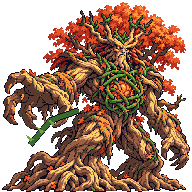
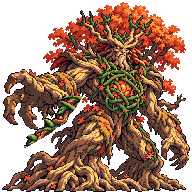
art(world1): redraw Bramble King vine parts

Changed region(s): [[0.125, 0.5, 0.4375, 0.7812]]

diff --git a/tools/art/build_world1_boss.py b/tools/art/build_world1_boss.py
@@ -3,7 +3,6 @@ from __future__ import annotations
 
 from pathlib import Path
 import json
-import math
 import random
 from PIL import Image, ImageDraw
 from pack_atlas import pack
@@ -11,6 +10,10 @@ from pack_atlas import pack
 ROOT=Path(__file__).resolve().parents[2]
 SOURCE=ROOT/'art/concept/2026-10-24_bramble_king_sprite_source.png'
 VINE_SOURCE=ROOT/'art/concept/2026-10-25_vine_whip_detailed_source.png'
+ATTACK_SOURCE=ROOT/'art/concept/2026-10-25_vine_attack_detailed_source.png'
+SHIELD_IDLE_SOURCE=ROOT/'art/concept/2026-10-25_vine_shield_idle_source.png'
+SHIELD_BURN_SOURCE=ROOT/'art/concept/2026-10-25_vine_shield_burn_source.png'
+SEED_SOURCE=ROOT/'art/concept/2026-10-25_thorn_seed_source.png'
 OUT=ROOT/'art/frames/boss_bramble_king'
 PREVIEW=ROOT/'art/previews/phase_c'
 MASTER=[tuple(bytes.fromhex(s.strip()[1:])) for s in (ROOT/'art/palette/master_palette.hex').read_text().splitlines() if s.strip()]
@@ -43,7 +46,25 @@ def base_boss() -> Image.Image:
     return result
 
 
-def boss_pose(base:Image.Image,action:str,i:int,count:int)->Image.Image:
+def concept(path:Path,size:tuple[int,int])->Image.Image:
+    source=Image.open(path).convert('RGBA')
+    box=source.getchannel('A').point(lambda a:255 if a>=128 else 0).getbbox()
+    return indexed(source.crop(box).resize(size,Image.Resampling.NEAREST))
+
+
+def attack_tendril()->Image.Image:
+    # Isolate the new hanging vine; retain the original boss body in every pose.
+    source=Image.open(ATTACK_SOURCE).convert('RGBA').crop((0,650,500,1240))
+    mask=Image.new('L',source.size);drawing=ImageDraw.Draw(mask)
+    drawing.polygon([(330,0),(460,0),(410,90),(345,160),(290,225),
+                     (175,300),(80,360),(22,445),(75,535),(160,590),
+                     (90,590),(0,475),(10,350),(125,270),(230,190),
+                     (260,100)],fill=255)
+    source.putalpha(Image.composite(source.getchannel('A'),Image.new('L',source.size),mask))
+    return indexed(source.resize((90,95),Image.Resampling.NEAREST))
+
+
+def boss_pose(base:Image.Image,action:str,i:int,count:int,tendril:Image.Image)->Image.Image:
     frame=base.copy();d=ImageDraw.Draw(frame)
     if action=='idle':
         # Autumn leaves drift above the branches. Trunk/roots stay anchored.
@@ -51,12 +72,11 @@ def boss_pose(base:Image.Image,action:str,i:int,count:int)->Image.Image:
             x=48+j*32+(i+j)%3;y=9+j*8+i%2
             d.rectangle((x,y,x+2,y+2),fill=P((11,12,13)[j]))
     elif action=='vine_attack':
-        x=round(50-5*min(i,5))
-        d.line((78,110,50,120,x,144),fill=P(0),width=7)
-        d.line((78,110,50,120,x,144),fill=P(29),width=5)
-        for j in range(3):
-            px=x+j*11;py=141-j*8
-            d.polygon([(px,py),(px-4,py-6),(px+3,py-2)],fill=P(30))
+        extent=(0,16,32,49,66,82,90,90)[i]
+        if extent:
+            # Root stays fixed at the hand; the thorny striking tip grows left/down.
+            vine=tendril.crop((90-extent,0,90,95))
+            frame.alpha_composite(vine,(90-extent,96))
     elif action=='roar':
         for j in range(2+i%3):
             x=113+j*7;y=61+j*4
@@ -102,31 +122,21 @@ def vine_whip(i:int,base:Image.Image)->Image.Image:
     return frame
 
 
-def shield(i:int,burning:bool)->Image.Image:
-    frame=Image.new('RGBA',(32,32));d=ImageDraw.Draw(frame)
-    d.ellipse((2,2,29,29),fill=P(0))
-    d.ellipse((5,5,26,26),fill=P(28 if not burning else 11))
-    d.ellipse((10,10,21,21),fill=P(29 if not burning else 13))
-    for angle in range(0,360,45):
-        cx=16+round(12*math.cos(math.radians(angle)))
-        cy=16+round(12*math.sin(math.radians(angle)))
-        d.line((16,16,cx,cy),fill=P(30 if not burning else 14),width=2)
-    if burning:
-        rng=random.Random(905)
-        a=frame.load()
-        for y in range(32):
-            for x in range(32):
-                if a[x,y][3] and rng.random()<i/5:
-                    a[x,y]=(0,0,0,0)
+def shield(i:int,burning:bool,idle:Image.Image,burn:Image.Image)->Image.Image:
+    if not burning:return idle.copy()
+    frame=idle.copy();a=frame.load();b=burn.load()
+    rng=random.Random(905)
+    fraction=(.24,.43,.62,.82,1.0,1.0)[i]
+    for y in range(32):
+        for x in range(32):
+            if rng.random()<fraction and b[x,y][3]:a[x,y]=b[x,y]
+            if i==5 and a[x,y][3] and rng.random()<.62:a[x,y]=(0,0,0,0)
     return frame
 
 
-def seed(i:int)->Image.Image:
-    frame=Image.new('RGBA',(16,16));d=ImageDraw.Draw(frame)
-    d.ellipse((4,4+i,11,11+i),fill=P(0))
-    d.ellipse((6,6+i,9,9+i),fill=P(29))
-    for x in (4,8,11):
-        d.polygon([(x,6+i),(x-1,1+i),(x+2,4+i)],fill=P(30))
+def seed(i:int,source:Image.Image)->Image.Image:
+    frame=Image.new('RGBA',(16,16))
+    frame.alpha_composite(source,(1,1+i))
     return frame
 
 
@@ -134,13 +144,19 @@ def build() -> None:
     OUT.mkdir(parents=True,exist_ok=True);PREVIEW.mkdir(parents=True,exist_ok=True)
     base=base_boss()
     whip_base=vine_base()
+    tendril=attack_tendril()
+    shield_idle=concept(SHIELD_IDLE_SOURCE,(30,30))
+    shield_burn=concept(SHIELD_BURN_SOURCE,(30,30))
+    idle_part=Image.new('RGBA',(32,32));idle_part.alpha_composite(shield_idle,(1,1))
+    burn_part=Image.new('RGBA',(32,32));burn_part.alpha_composite(shield_burn,(1,1))
+    seed_base=concept(SEED_SOURCE,(14,14))
     for name,(count,fps,repeat) in ANIMS.items():
         for i in range(count):
             if name=='vine_whip':frame=vine_whip(i,whip_base)
-            elif name=='vine_shield_idle':frame=shield(0,False)
-            elif name=='vine_shield_burn':frame=shield(i,True)
-            elif name=='thorn_seed':frame=seed(i)
-            else:frame=boss_pose(base,name,i,count)
+            elif name=='vine_shield_idle':frame=shield(0,False,idle_part,burn_part)
+            elif name=='vine_shield_burn':frame=shield(i,True,idle_part,burn_part)
+            elif name=='thorn_seed':frame=seed(i,seed_base)
+            else:frame=boss_pose(base,name,i,count,tendril)
             frame.save(OUT/f'{name}_{i:03}.png')
     dest=ROOT/'public/assets/sprites/bosses/boss_bramble_king'
     atlas=pack(OUT,dest)
@@ -167,6 +183,18 @@ def build() -> None:
         enlarged=frame.resize((384,96),Image.Resampling.NEAREST)
         strip.paste(enlarged,(120,i*112+16),enlarged)
     strip.save(PREVIEW/'2026-10-25_vine_whip_animation_strip.png')
+    parts=Image.new('RGB',(640,360),'#2b2440');pd=ImageDraw.Draw(parts)
+    pd.text((12,10),'BRAMBLE KING / REDRAWN VINE PARTS',fill=P(5))
+    for column,step in enumerate((0,3,7)):
+        sprite=Image.open(OUT/f'vine_attack_{step:03}.png').convert('RGBA')
+        parts.paste(sprite,(12+column*207,30),sprite)
+        pd.text((12+column*207,226),f'vine_attack_{step:03}',fill=P(5))
+    for column,(name,step) in enumerate((('vine_shield_idle',0),('vine_shield_burn',3),('thorn_seed',0))):
+        sprite=Image.open(OUT/f'{name}_{step:03}.png').convert('RGBA')
+        sprite=sprite.resize((64,64),Image.Resampling.NEAREST)
+        parts.paste(sprite,(20+column*207,260),sprite)
+        pd.text((87+column*207,278),name,fill=P(5))
+    parts.save(PREVIEW/'2026-10-25_bramble_parts_redraw_review.png')
     print(f"Built {len(atlas['frames'])} boss/part frames and {len(ANIMS)} animations: {atlas['meta']['size']}")
 
 

diff --git a/art/reports/2026-10-25_bramble_parts_imagegen_prompts.md b/art/reports/2026-10-25_bramble_parts_imagegen_prompts.md
@@ -1,0 +1,44 @@
+# Bramble King part redraw — built-in imagegen, 2026-10-25
+
+Four separate built-in `image_gen` edits produced transparent concept sources. `tools/art/build_world1_boss.py` reduces them to the fixed production frame sizes and the existing 16-color boss palette. The concept sources are not loaded by the game.
+
+| Asset | Source | Production frames |
+| --- | --- | --- |
+| vine_attack | `art/concept/2026-10-25_vine_attack_detailed_source.png` | 8 × 192×192 |
+| vine_shield_idle | `art/concept/2026-10-25_vine_shield_idle_source.png` | 1 × 32×32 |
+| vine_shield_burn | `art/concept/2026-10-25_vine_shield_burn_source.png` | 6 × 32×32 |
+| thorn_seed | `art/concept/2026-10-25_thorn_seed_source.png` | 2 × 16×16 |
+
+## Final prompts
+
+### vine_attack
+
+```text
+Use case: precise-object-edit. Asset: Bramble King vine_attack overlay concept for 192×192 boss frames in a 16-bit pixel-art platform game. Image 1 is the current boss attack pose edit target; Image 2 is the detailed vine_whip style reference. Redraw ONLY the attacking vine emerging from the boss's lower left forearm, reaching and lashing diagonally down-left. Preserve the entire boss body, face, foliage, colors, silhouette, stance, and framing exactly as Image 1. Replace the flat green angular tendril with a richer twisted woody vine: dark bark segments, bright moss-green fiber wraps, sharp alternating thorns, restrained amber knots, near-black outline, deliberate pixel clusters. It should remain visually distinct from the arm and readable at original 192px frame size. Full boss entirely in frame, exact same location on a genuinely transparent background. No ground, scenery, text, blur, antialias, or extra appendages.
+```
+
+Inputs: `art/frames/boss_bramble_king/vine_attack_004.png` (edit target), `art/concept/2026-10-25_vine_whip_detailed_source.png` (style reference). The pipeline isolates the redesigned tendril and composites it over the original boss body so the body does not change between frames.
+
+### vine_shield_idle
+
+```text
+Use case: precise-object-edit. Asset type: one vine_shield_idle sprite concept for a 32×32 pixel-art boss part. Image 1 is the current simple circular shield edit target; Image 2 is the Bramble King style reference; Image 3 is a detailed thorny vine material reference. Redraw the shield as a compact readable circular woven buckler built from interlocked dark woody vines, moss-green braids, alternating short thorns, a warm amber glowing knot in its core, and a dark crisp silhouette. Preserve a centered round 32×32 composition and genuine transparent surrounding canvas. Make the silhouette and broad material bands survive reduction to 32×32 pixels. Handcrafted 16-bit pixel art, rectangular pixel clusters, 2-3 tones per material, controlled highlights. No boss body, no scene, no text, no blur, no antialias, no radial spokes, no smooth gradients.
+```
+
+Inputs: `art/frames/boss_bramble_king/vine_shield_idle_000.png` (edit target), `art/previews/phase_c/2026-10-24_bramble_king_review.png` (boss style), `art/concept/2026-10-25_vine_whip_detailed_source.png` (vine material).
+
+### vine_shield_burn
+
+```text
+Use case: precise-object-edit. Asset: burning transformation concept for vine_shield_burn animation, ultimately 32×32 pixel art. Image 1 is the new shield idle design and the STRICT edit target; Image 2 is the old burn sprite only for gameplay meaning. Keep the exact circular woven silhouette, orientation, thorn placement, ring topology, and central amber knot of Image 1. Turn the outer vines into charred wood with spreading orange-yellow embers and a few crisp pixel flames on the upper edges. Core glows hotter. Shield is mid-burn and still recognizably the same shield. Genuine transparent background, object centered with generous empty transparent margin, no scene, text, particles detached from the object, blur, antialias, or smooth gradient. Crisp handcrafted 16-bit pixel art, readable when reduced to 32×32.
+```
+
+Inputs: `art/concept/2026-10-25_vine_shield_idle_source.png` (edit target), `art/frames/boss_bramble_king/vine_shield_burn_003.png` (gameplay reference).
+
+### thorn_seed
+
+```text
+Use case: precise-object-edit. Asset type: thorn_seed projectile concept for a 16×16 pixel-art fantasy platform game. Image 1 is the current tiny thorn_seed edit target; Image 2 is the Bramble King boss style reference; Image 3 is the woven vine shield material reference. Redraw only one isolated compact spiked seed pod, vertically oriented, roughly round/teardrop silhouette. Give it a dark woody husk, three to five strong alternating hooked moss-green thorns, a few warm amber fissures, selective near-black outline. Make its outline unmistakable at 16×16 and keep the core large enough to read. Genuine transparent background, centered object, fully visible with margin. Crisp handcrafted 16-bit pixel art with deliberate rectangular clusters and limited material shades. No other object, no ground, no scene, no text, no blur, antialias or smooth gradient.
+```
+
+Inputs: `art/frames/boss_bramble_king/thorn_seed_000.png` (edit target), `art/previews/phase_c/2026-10-24_bramble_king_review.png` (boss style), `art/concept/2026-10-25_vine_shield_idle_source.png` (material reference).

diff --git a/art/reports/phase_c.md b/art/reports/phase_c.md
@@ -16,6 +16,7 @@
 - `art/previews/phase_c/2026-10-25_world1_animations.html` and `animations/*.gif`: 22 review-only animations at the rates specified by `animations.json`.
 - `tools/art/inspect_world1_pack.py`, `build_world1_animation_previews.py`, and `art/reports/2026-10-25_world1_integration_guide.md`: repeatable QA output and tile/integration notes for Claude.
 - `art/concept/2026-10-25_vine_whip_detailed_source.png` and `art/reports/2026-10-25_vine_whip_imagegen_prompt.md`: transparent imagegen source and exact prompt for the more detailed vine whip requested by Pinz. `tools/art/build_world1_boss.py` converts it to six 64×16 frames in the existing atlas. The review strip is `art/previews/phase_c/2026-10-25_vine_whip_animation_strip.png`.
+- `art/concept/2026-10-25_vine_attack_detailed_source.png`, `2026-10-25_vine_shield_idle_source.png`, `2026-10-25_vine_shield_burn_source.png`, and `2026-10-25_thorn_seed_source.png`: four built-in imagegen redraws requested by Pinz. Exact prompts and reference roles are recorded in `art/reports/2026-10-25_bramble_parts_imagegen_prompts.md`. The builder converts them to the fixed 192×192, 32×32, and 16×16 frames while preserving the boss body across the attack. Review board: `art/previews/phase_c/2026-10-25_bramble_parts_redraw_review.png`.
 
 ## 2. Validation
 
